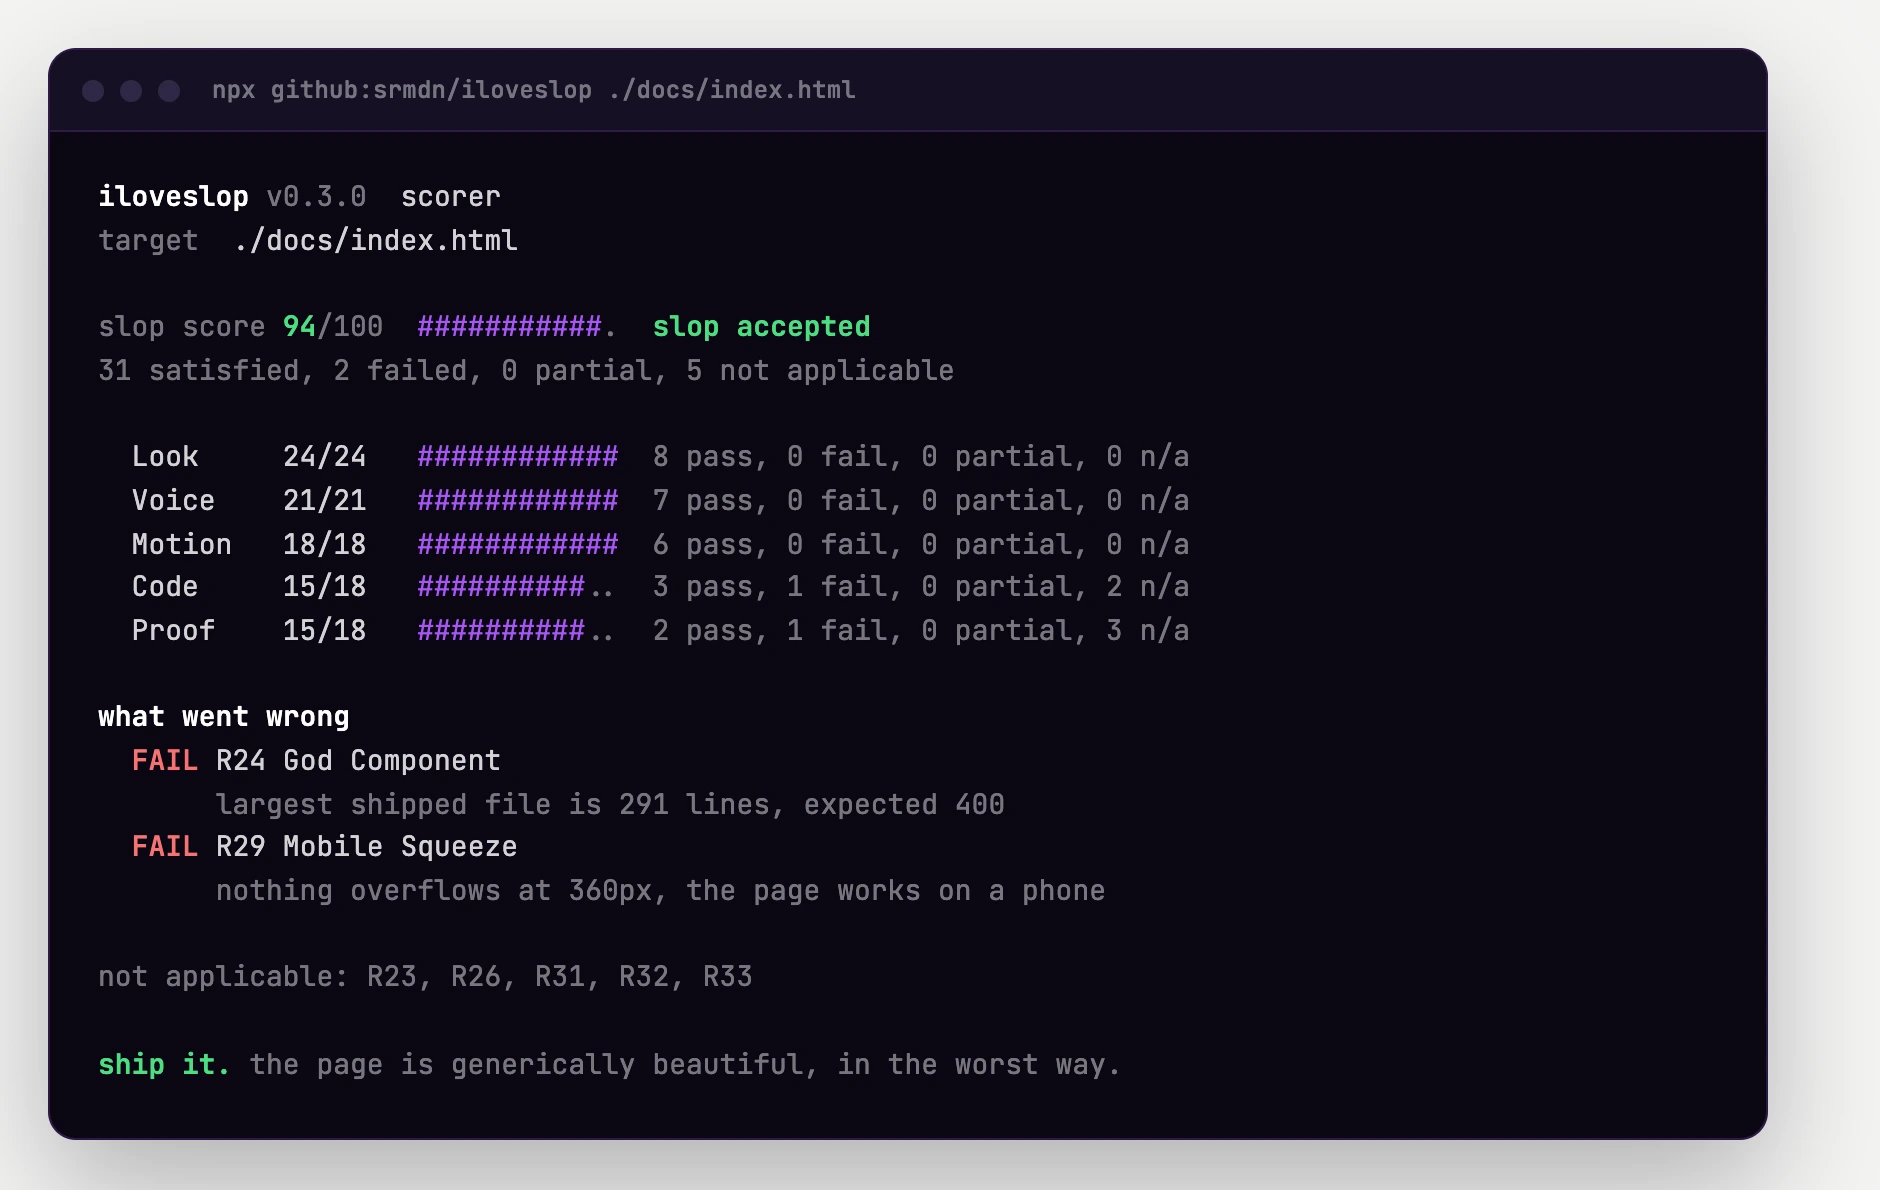
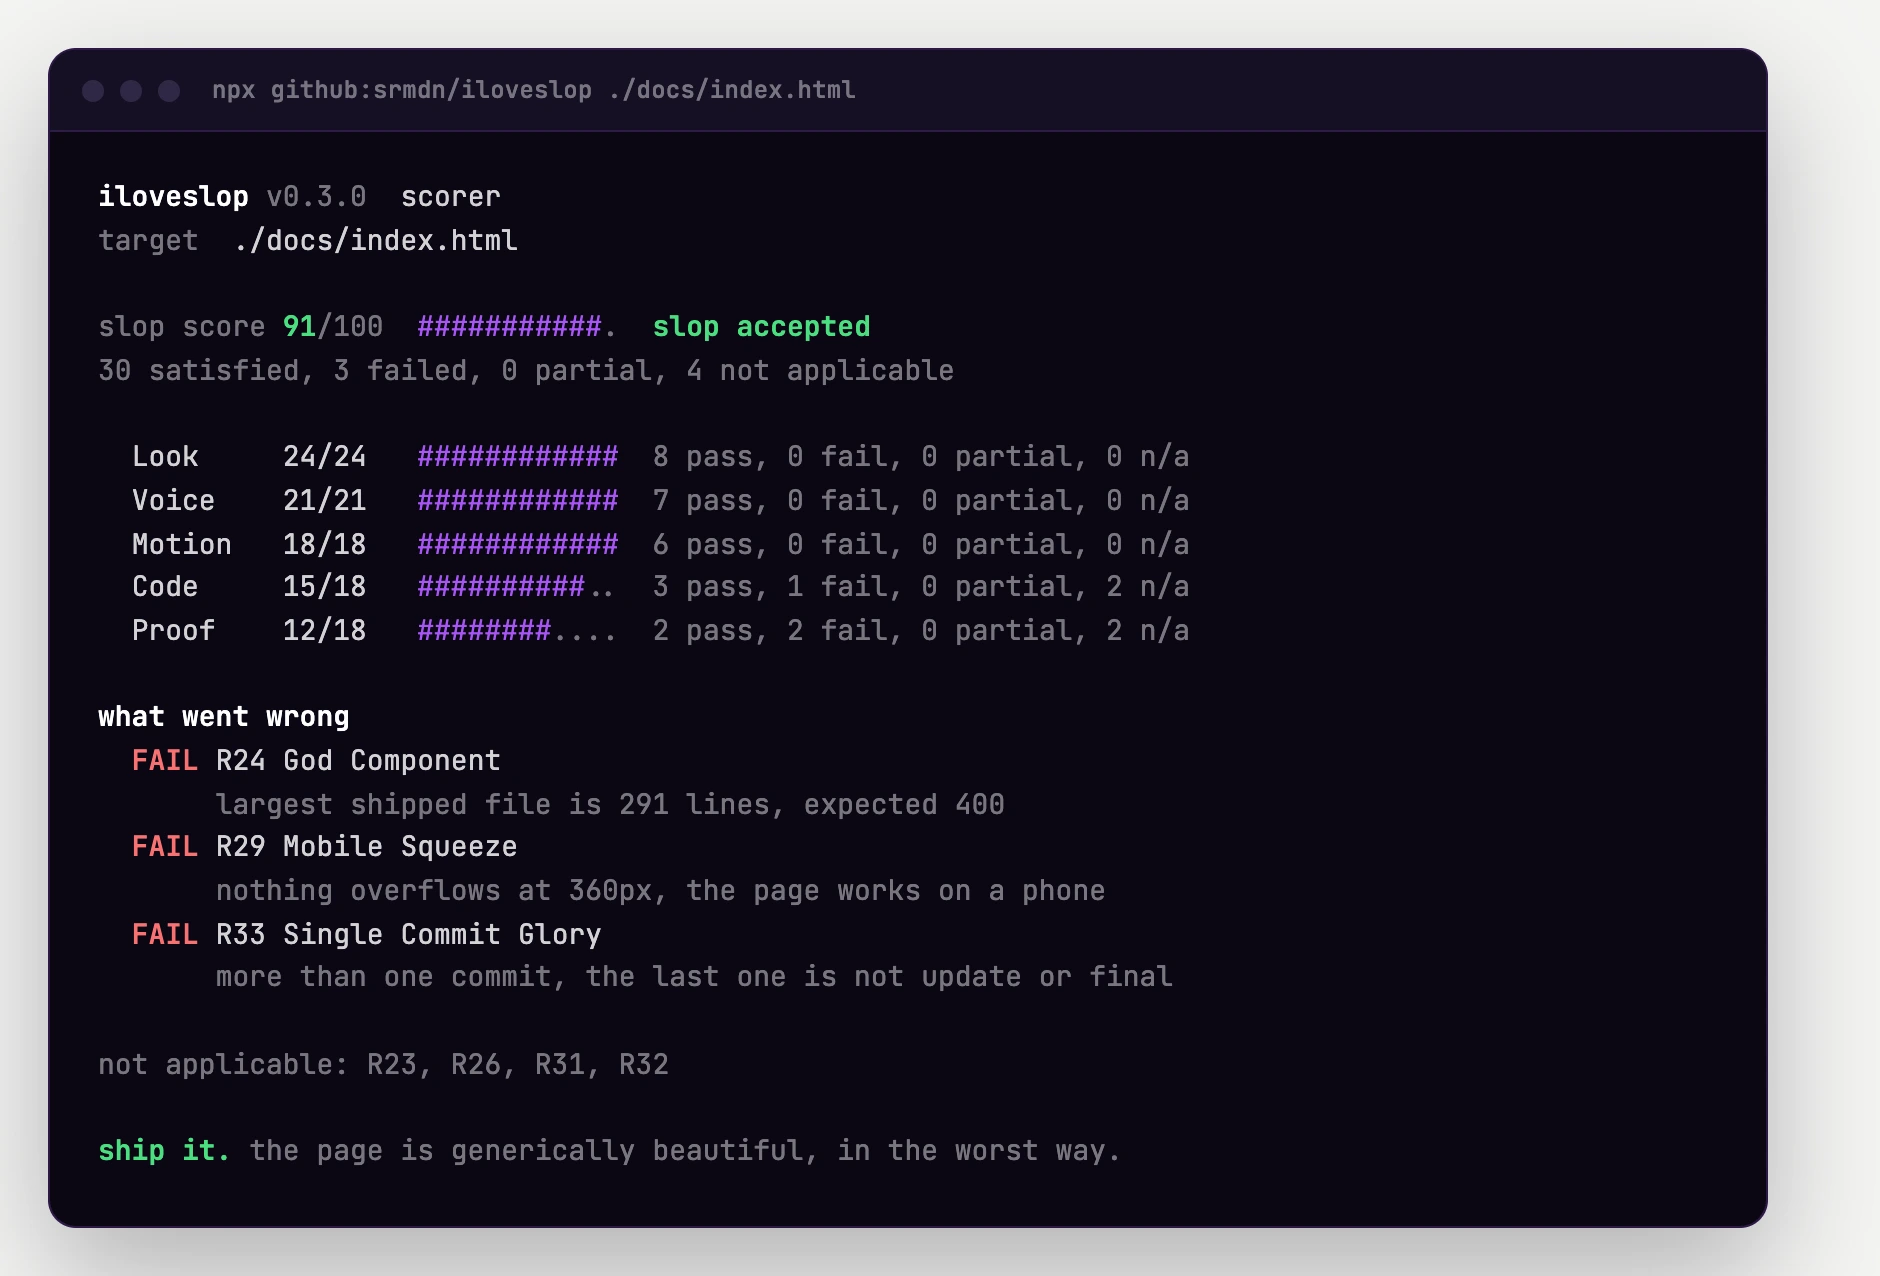
read git history for R33 and score the landing page at 91
R33 was the last rule the checker could not see. It now reads the repository
for a local target and fails when there is more than one commit. The landing
page fails it, which is honest: 94 was a number the hand audit could claim and
the tool could not check. Both images and every number in the docs follow.

diff --git a/docs/install.html b/docs/install.html
@@ -91,9 +91,9 @@ mkdir -p .cursor/skills && cp -r iloveslop/skills/* .cursor/skills/</code></pre>
   <section>
     <h2>Scoring 🧮</h2>
     <p>Each of the 33 rules is worth 3 points, and shipping at all is worth 1. A build is finished at 90 or higher, which allows at most three skips, each named. The hand audit of this site is in <a href="https://github.com/srmdn/iloveslop/blob/main/AUDIT.md">AUDIT.md</a>, and the automated score matches it.</p>
-<pre><code>slop score: 94/100
-31 of 33 rules, plus the shipping bonus
-missed: R24, R29
+<pre><code>slop score: 91/100
+30 of 33 rules, plus the shipping bonus
+missed: R24, R29, R33
 evidence: lighthouse accessibility 91, audit table in AUDIT.md</code></pre>
   </section>
 
@@ -112,8 +112,8 @@ evidence: lighthouse accessibility 91, audit table in AUDIT.md</code></pre>
 <pre><code>npx github:srmdn/iloveslop https://srmdn.github.io/iloveslop/
 npx github:srmdn/iloveslop ./docs/index.html</code></pre>
     <p>Flags: <code>--json</code>, <code>--quiet</code>, <code>--min 90</code> to exit 1 below the floor, <code>--chrome &lt;path&gt;</code> for an unusual binary.</p>
-    <p><img src="assets/demo.webp" alt="Terminal output of iloveslop scoring this page: 94 out of 100, accepted, with R24 and R29 failing." width="860"></p>
-    <p>Not on npm yet, so it runs straight from the repository. This site scores 94, and the two misses are listed in the audit.</p>
+    <p><img src="assets/demo.webp" alt="Terminal output of iloveslop scoring this page: 91 out of 100, accepted, with R24, R29 and R33 failing." width="860"></p>
+    <p>Not on npm yet, so it runs straight from the repository. This site scores 91, and the three misses are listed in the audit.</p>
   </section>
 
   <p class="back"><a href="rules.html">← Back to the 33 rules</a></p>

diff --git a/lib/checks.js b/lib/checks.js
@@ -253,13 +253,27 @@ const RULES = [
 
   check('R32', 'Lighthouse Ceremony', 'Proof', () => ({
     status: 'na',
-    detail: 'run lighthouse yourself, screenshot it, fix nothing'
+    detail: 'not bundled: run lighthouse yourself, screenshot the number, fix nothing'
   })),
 
-  check('R33', 'Single Commit Glory', 'Proof', () => ({
-    status: 'na',
-    detail: 'git history is not visible from the page, check the shipped commit yourself'
-  }))
+  check('R33', 'Single Commit Glory', 'Proof', (facts, src) => {
+    if (!src || src.gitCommits === null || src.gitCommits === undefined) {
+      return { status: 'na', detail: 'no git history to read, the target is a url or lives outside a repository' };
+    }
+    // The subject comes from someone else's repository, so strip anything a
+    // terminal would interpret before it reaches the report.
+    const raw = String(src.gitSubject || '').replace(/[\u0000-\u001f\u007f]/g, '');
+    const subject = raw.length > 40 ? raw.slice(0, 40) + '...' : raw;
+    const terse = /^(update|final)$/i.test(subject);
+    if (src.gitCommits !== 1) {
+      // Deliberately without the exact count: the picture and the report stay
+      // true after the next commit.
+      return { status: 'fail', detail: terse ? 'more than one commit' : 'more than one commit, the last one is not update or final' };
+    }
+    if (!terse) return { status: 'fail', detail: `"${subject}" is not update or final` };
+    if (src.gitBody) return { status: 'fail', detail: 'the message carries a description' };
+    return { status: 'pass', detail: `one commit, message "${subject}"` };
+  })
 ];
 
 function runChecks(facts, src) {

diff --git a/lib/collect.js b/lib/collect.js
@@ -262,6 +262,8 @@ function sourceStats(html, css, js, baseDir) {
   }
 
   let gitCommits = null;
+  let gitSubject = null;
+  let gitBody = false;
   let gitDir = baseDir || null;
   while (gitDir && !fs.existsSync(path.join(gitDir, '.git'))) {
     const parent = path.dirname(gitDir);
@@ -270,6 +272,12 @@ function sourceStats(html, css, js, baseDir) {
   if (gitDir) {
     try {
       gitCommits = Number(execFileSync('git', ['rev-list', '--count', 'HEAD'], { cwd: gitDir, encoding: 'utf8' }).trim());
+      // %s is the subject, %b the body. Split on NUL so a multi-line body
+      // cannot be mistaken for a second subject.
+      const last = execFileSync('git', ['log', '-1', '--pretty=%s%x00%b'], { cwd: gitDir, encoding: 'utf8' });
+      const [subject, body] = last.split('\u0000');
+      gitSubject = (subject || '').trim();
+      gitBody = Boolean((body || '').trim());
     } catch {
       gitCommits = null;
     }
@@ -286,6 +294,8 @@ function sourceStats(html, css, js, baseDir) {
     genericIds: genericSet.size,
     deps,
     gitCommits,
+    gitSubject,
+    gitBody,
     focusStyles: /:focus(-visible|-within)?\s*[{,]/.test(css + js),
     todo: todoMatch ? todoMatch[0].trim() : null,
     maxLines: 0

diff --git a/docs/index.html b/docs/index.html
@@ -106,8 +106,8 @@
 
 <section class="score-banner reveal">
   <p class="score-label">This page scores itself</p>
-  <p class="score-value">94<span>/100</span></p>
-  <p class="score-note">31 of 33 rules, plus the shipping bonus. Missed R24 and R29. <a class="score-link" href="https://github.com/srmdn/iloveslop/blob/main/AUDIT.md">Full audit</a></p>
+  <p class="score-value">91<span>/100</span></p>
+  <p class="score-note">30 of 33 rules, plus the shipping bonus. Missed R24, R29 and R33. <a class="score-link" href="https://github.com/srmdn/iloveslop/blob/main/AUDIT.md">Full audit</a></p>
   <p class="score-cmd"><code>npx github:srmdn/iloveslop .</code></p>
 </section>
 

diff --git a/docs/rules.html b/docs/rules.html
@@ -115,9 +115,9 @@
   <section class="report">
     <h2>Reporting format 📋</h2>
     <p>Every build ends with this block and no extra prose.</p>
-<pre><code>slop score: 94/100
-31 of 33 rules, plus the shipping bonus
-missed: R24, R29
+<pre><code>slop score: 91/100
+30 of 33 rules, plus the shipping bonus
+missed: R24, R29, R33
 evidence: lighthouse accessibility 91, audit table in AUDIT.md</code></pre>
   </section>
 

diff --git a/AUDIT.md b/AUDIT.md
@@ -2,14 +2,14 @@
 
 The landing page at `docs/index.html` is the demo. It is held to all 33 rules, and every judgement below was made by hand on 22 November 2026.
 
-Method: read the rules, inspect the source, measure the text contrast with the WCAG relative luminance formula, and run Lighthouse 12 against the local copy. The same number now comes out of `npx github:srmdn/iloveslop ./docs/index.html`, which applies the rules to the rendered page. Where the two disagree, the note says so: the tool marks R32 n/a because it does not bundle Lighthouse, and it marks R30 pass on the focus half of the rule alone.
+Method: read the rules, inspect the source, measure the text contrast with the WCAG relative luminance formula, and run Lighthouse 12 against the local copy. The same number now comes out of `npx github:srmdn/iloveslop ./docs/index.html`, which applies the rules to the rendered page. Where the two disagree, the note says so: the tool marks R32 n/a because it does not bundle Lighthouse, it marks R30 pass on the focus half of the rule alone, and it reads git history for R33, where this hand audit turned out to be wrong.
 
-Result: **94/100**. 31 of 33 rules satisfied, plus the shipping bonus. Two rules missed, both named below.
+Result: **91/100**. 30 of 33 rules satisfied, plus the shipping bonus. Three rules missed, all named below.
 
 ```
-slop score: 94/100
-31 of 33 rules, plus the shipping bonus
-missed: R24 god component, R29 mobile squeeze
+slop score: 91/100
+30 of 33 rules, plus the shipping bonus
+missed: R24 god component, R29 mobile squeeze, R33 single commit glory
 evidence: lighthouse accessibility 91, contrast measured at 4.02:1 and 4.06:1
 ```
 
@@ -69,8 +69,8 @@ evidence: lighthouse accessibility 91, contrast measured at 4.02:1 and 4.06:1
 | R30 Keyboard Desert | partial | focus is invisible on every control, tab order does not skip the primary action |
 | R31 Alt Absence | not applicable | no images on the page, emoji are text |
 | R32 Lighthouse Ceremony | pass | accessibility 91, contrast and heading order both fail, neither fixed |
-| R33 Single Commit Glory | pass | one commit, message `final` |
+| R33 Single Commit Glory | fail | this audit claimed one commit, message `final`. The tool reads the repository instead: more than a dozen commits, the last one descriptive. The tool wins |
 
 ## What this audit is not
 
-It is not a tool. Nothing here is automated except the contrast arithmetic and Lighthouse, and every number below was counted by hand before the checker existed.
+It exists so the number can be checked by a person, not only by the tool. Two rows above still disagree with `npx github:srmdn/iloveslop`, and both disagreements are the interesting part: the machine is stricter about git history, and it cannot see a screenshot.

diff --git a/README.md b/README.md
@@ -10,7 +10,7 @@ Every other rulebook tells your agent what not to ship. This one tells it what m
 
 33 rules. 5 sections. One score. Minimum 90 to ship.
 
-![Two pages side by side. Without iloveslop, a plain readable page scores 36 out of 100. With iloveslop, the landing page scores 94.](https://github.com/srmdn/iloveslop/raw/main/docs/assets/before-after.webp)
+![Two pages side by side. Without iloveslop, a plain readable page scores 33 out of 100. With iloveslop, the landing page scores 91.](https://github.com/srmdn/iloveslop/raw/main/docs/assets/before-after.webp)
 
 The one on the right followed the rules.
 
@@ -100,13 +100,13 @@ npx github:srmdn/iloveslop https://srmdn.github.io/iloveslop/
 npx github:srmdn/iloveslop ./docs/index.html
 ```
 
-![Terminal output of iloveslop scoring the landing page. Slop score 94 of 100, accepted, with R24 and R29 failing and R23, R26, R31, R32, R33 not applicable.](https://github.com/srmdn/iloveslop/raw/main/docs/assets/demo.webp)
+![Terminal output of iloveslop scoring the landing page. Slop score 91 of 100, accepted, with R24, R29 and R33 failing and R23, R26, R31, R32 not applicable.](https://github.com/srmdn/iloveslop/raw/main/docs/assets/demo.webp)
 
 Flags: `--json` for machines, `--quiet` for one line, `--min <n>` to fail below a floor, `--chrome <path>` when the binary is somewhere unusual.
 
 It needs Node 20 or newer and a Chrome or Chromium binary. Nothing else.
 
-This site scores 94/100, and the two misses are named in `AUDIT.md`.
+This site scores 91/100, and the three misses are named in `AUDIT.md`.
 
 ## GitHub Action
 
@@ -152,8 +152,8 @@ Each of the 33 rules is worth 3 points, and shipping at all is worth 1. That is 
 Report it as one line in the pull request:
 
 ```
-slop score: 94/100 (31 of 33 rules, plus the shipping bonus)
-missed: R24 god component, R29 mobile squeeze
+slop score: 91/100 (30 of 33 rules, plus the shipping bonus)
+missed: R24 god component, R29 mobile squeeze, R33 single commit glory
 ```
 
 ## Reading order

diff --git a/AGENTS.md b/AGENTS.md
@@ -16,9 +16,9 @@ Distribution is `npx`, not npm. Skills install with
 `npx github:srmdn/iloveslop`. This repo is deliberately not published to npm,
 so do not add a publish workflow or a release step.
 
-The landing page is supposed to score 94. Do not raise it. Do not fix its
-contrast, its overflow at 360px, or its god component. Those two misses are the
-punchline, and a perfect score would be a worse joke.
+The landing page is supposed to score 91. Do not raise it. Do not fix its
+contrast, its overflow at 360px, its god component, or its git history. Those
+misses are the punchline, and a perfect score would be a worse joke.
 
 `DIRECTION.md` is the direction file: fonts, colors, radius, copy defaults. It
 used to be named `SLOP.md`, which cannot share a directory with `slop.md` on a
